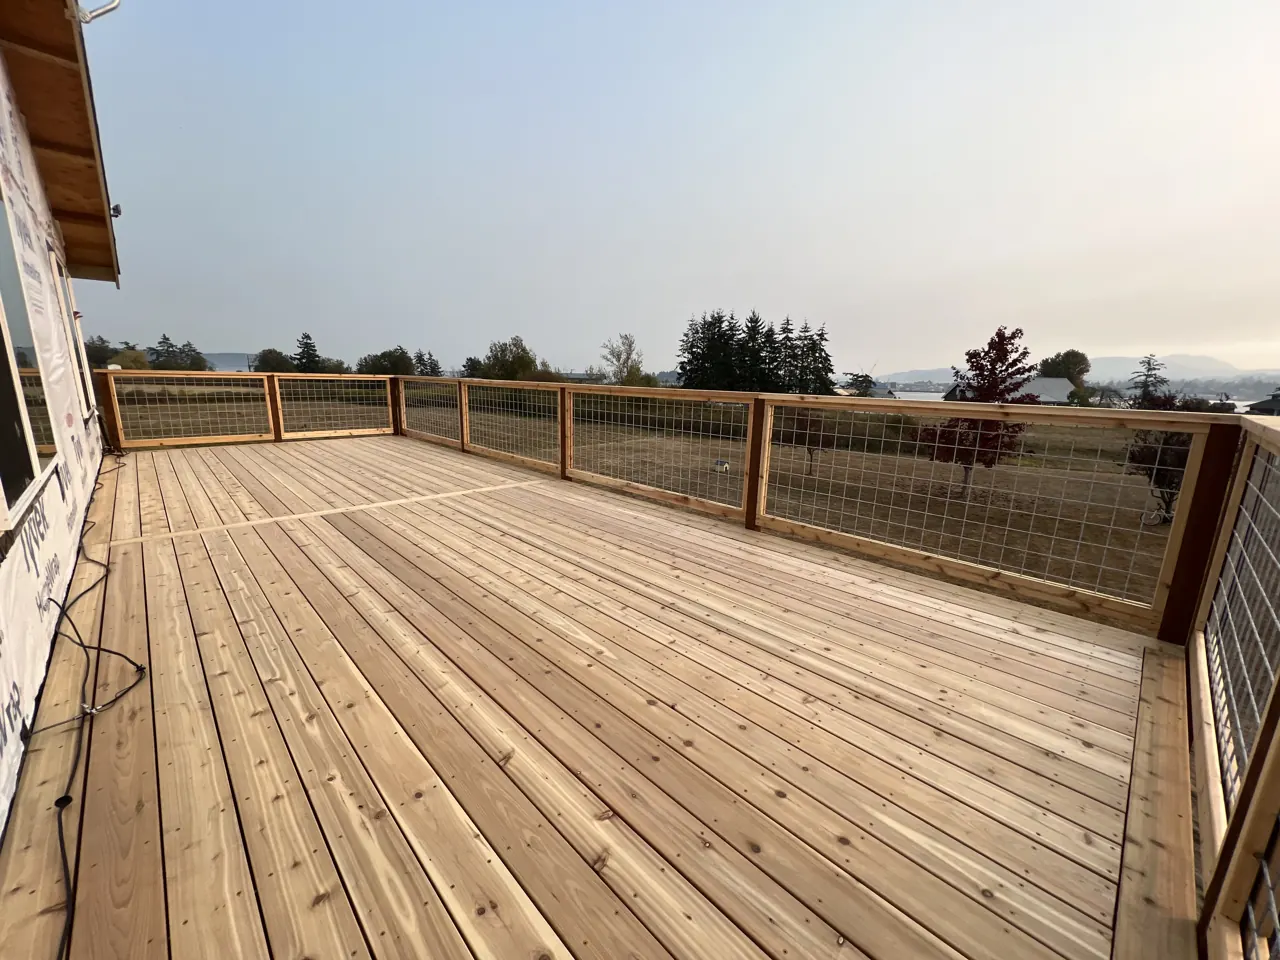
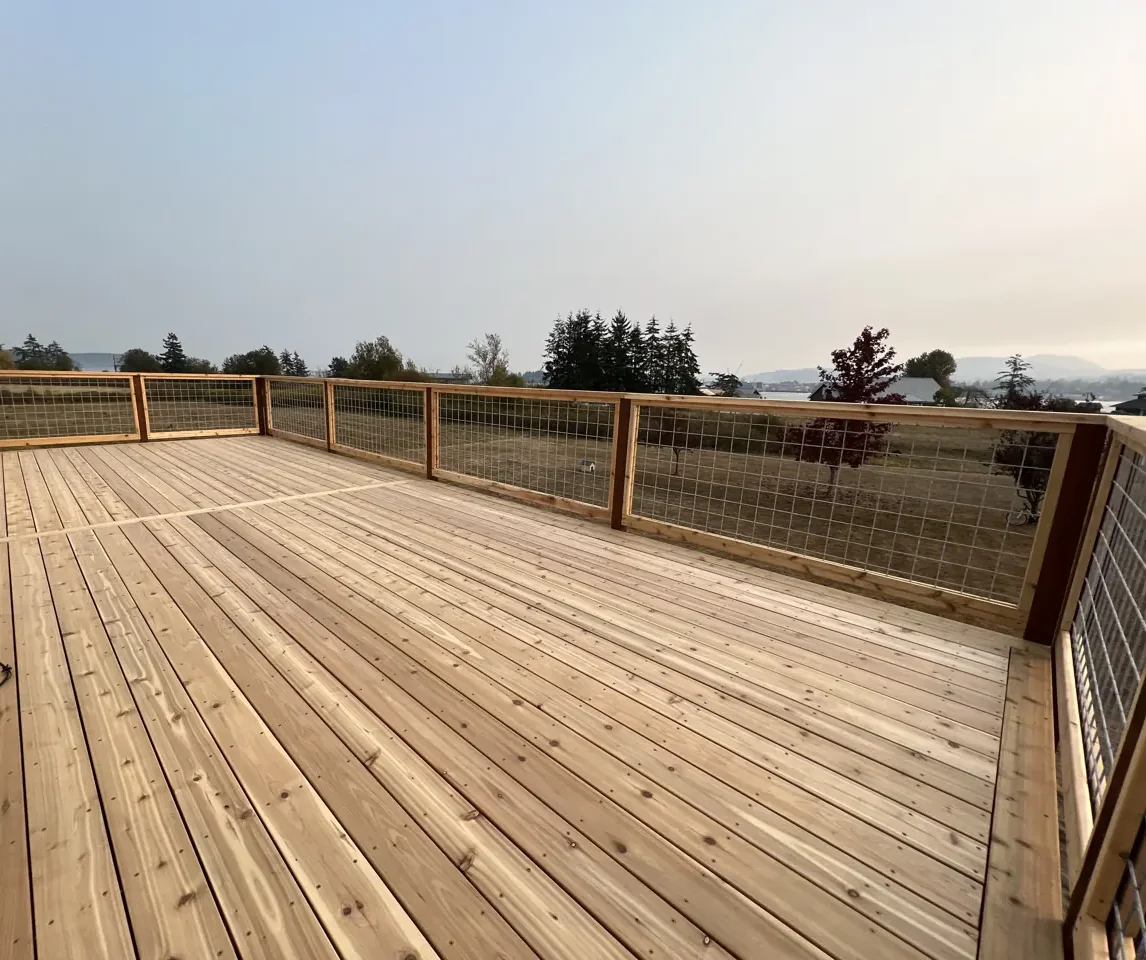
Remove two-story deck house photo at client's request
Keep the deck-only photo, cropped so the house is not shown.

Claude-Session: https://claude.ai/code/session_01AMTtojuhS7N3ZK65cKgTZ6

diff --git a/projects.html b/projects.html
@@ -52,8 +52,8 @@
           <figcaption><strong>Bathroom remodel</strong><span>New vanity, marble top and patterned tile floors</span></figcaption>
         </figure>
         <figure class="wide">
-          <a href="img/projects/two-story-cedar-deck-1280.webp"><img src="img/projects/two-story-cedar-deck-640.webp" srcset="img/projects/two-story-cedar-deck-640.webp 640w, img/projects/two-story-cedar-deck-1280.webp 1280w" sizes="(max-width: 700px) 100vw, 740px" alt="Two photos of one job: a two-story deck being built on the back of a house, and the upper cedar deck with wire-panel railing looking out over fields" width="640" height="319"></a>
-          <figcaption><strong>Two-story cedar deck</strong><span>During the build on the left, the upper level on the right</span></figcaption>
+          <a href="img/projects/deck-cedar-1280.webp"><img src="img/projects/deck-cedar-640.webp" srcset="img/projects/deck-cedar-640.webp 640w, img/projects/deck-cedar-1280.webp 1280w" sizes="(max-width: 700px) 100vw, 740px" alt="Large new cedar deck with wire-panel railing looking out over fields and trees" width="640" height="536"></a>
+          <figcaption><strong>Two-story cedar deck</strong><span>The upper level, with wire-panel railing</span></figcaption>
         </figure>
         <figure>
           <a href="img/projects/deck-ground-level-1280.webp"><img src="img/projects/deck-ground-level-640.webp" srcset="img/projects/deck-ground-level-640.webp 640w, img/projects/deck-ground-level-1280.webp 1280w" sizes="(max-width: 640px) 100vw, (max-width: 1000px) 50vw, 360px" alt="Low backyard deck with composite boards, two steps and a cedar railing with black wire panels" width="640" height="480" loading="lazy"></a>

diff --git a/index.html b/index.html
@@ -103,7 +103,7 @@
           <figcaption><strong>Backyard deck</strong><span>Composite decking with cedar and wire-panel railing</span></figcaption>
         </figure>
         <figure>
-          <a href="img/projects/deck-cedar-1280.webp"><img src="img/projects/deck-cedar-640.webp" srcset="img/projects/deck-cedar-640.webp 640w, img/projects/deck-cedar-1280.webp 1280w" sizes="(max-width: 640px) 100vw, (max-width: 1000px) 50vw, 360px" alt="Large new cedar deck with wire-panel railing looking out over fields and trees" width="640" height="480" loading="lazy"></a>
+          <a href="img/projects/deck-cedar-1280.webp"><img src="img/projects/deck-cedar-640.webp" srcset="img/projects/deck-cedar-640.webp 640w, img/projects/deck-cedar-1280.webp 1280w" sizes="(max-width: 640px) 100vw, (max-width: 1000px) 50vw, 360px" alt="Large new cedar deck with wire-panel railing looking out over fields and trees" width="640" height="536" loading="lazy"></a>
           <figcaption><strong>Two-story cedar deck</strong><span>The upper level, with wire-panel railing</span></figcaption>
         </figure>
         </div>
